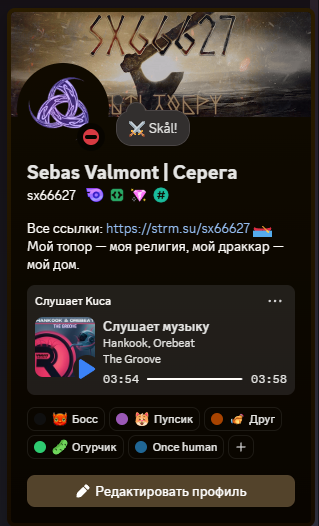
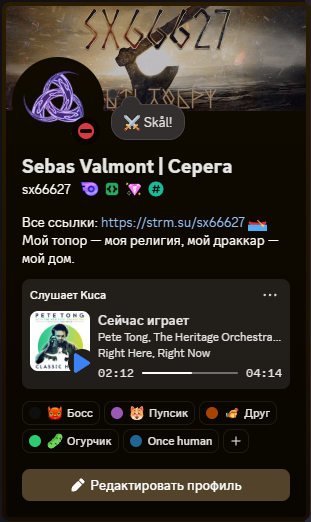
upd

Changed region(s): [[0.0, 0.0, 1.0, 1.0], [0.0, 0.4598, 0.0289, 1.0], [0.0868, 0.0613, 0.1158, 0.092]]

diff --git a/readme.md b/readme.md
@@ -28,6 +28,9 @@
 
 Укажите никнейм, если хотите отправлять данные о прослушивании боту. Потом можно через бота узнать, какой трек сейчас прослушивается.
 
+ Важно!
+ Что бы работал статус в дискорд. Нужно отправлять данные боту, для отображения обложки.
+
 Если вам не нужна отправка боту, оставьте ник по умолчанию. Или сделайте пустым.
 
 
